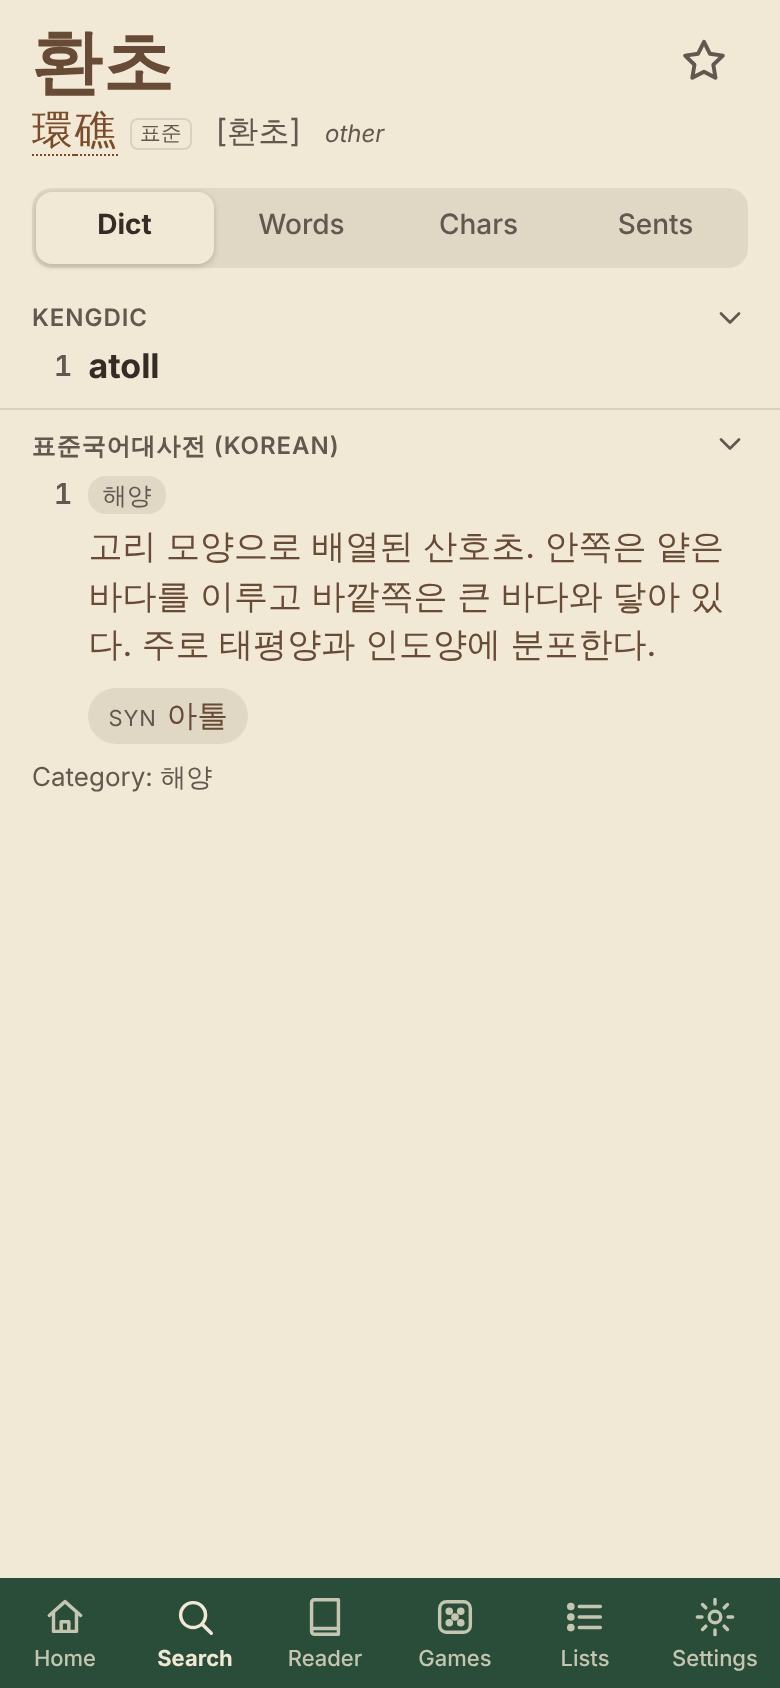
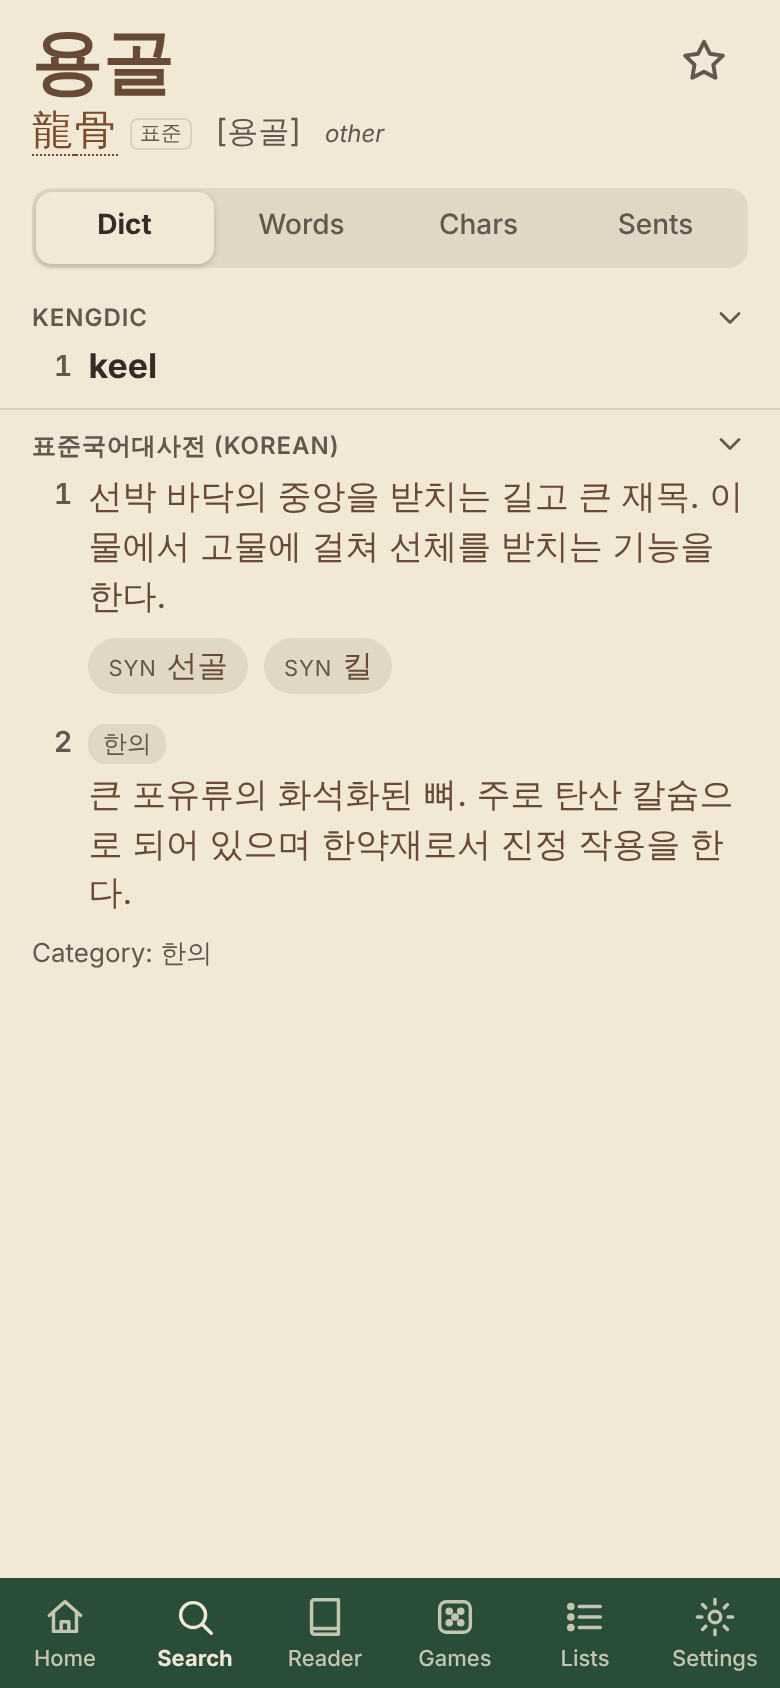
hanja fill e2e: use 용골 (filled with 우리말샘 corroboration) instead of 환초
Claude-Session: https://claude.ai/code/session_01KdPaeje8PEPnx6eSEhkmxd

diff --git a/app/e2e/hanja-fill.spec.ts b/app/e2e/hanja-fill.spec.ts
@@ -25,13 +25,13 @@ test('filled hanja: a small 표준 marker in the entry header (phone and iPad)',
   await page.getByRole('radio', { name: 'Light' }).click();
   await page.getByRole('link', { name: 'Search', exact: true }).click().catch(() => undefined);
 
-  // 환초 (kengdic-only word): hanja 環礁 from 표준국어대사전
-  await openEntry(page, '환초');
+  // 용골 (kengdic-only word, 'keel' also in 우리말샘): hanja 龍骨 from 표준국어대사전
+  await openEntry(page, '용골');
   const marker = page.locator('.entry-head .hanja-src');
   await expect(marker).toHaveCount(1);
   await expect(marker).toHaveText('표준');
   await expect(marker).toHaveAttribute('title', /표준국어대사전/);
-  await expect(page.locator('.entry-head .hanja-chars')).toHaveText('環礁');
+  await expect(page.locator('.entry-head .hanja-chars')).toHaveText('龍骨');
   // the marker is small and does not wrap the header onto many lines
   const box = await page.locator('.entry-head').boundingBox();
   expect(box!.height).toBeLessThan(150);
@@ -39,7 +39,7 @@ test('filled hanja: a small 표준 marker in the entry header (phone and iPad)',
 
   // the filled hanja feeds the Chars tab like any other
   await page.getByRole('tab', { name: /Chars/ }).click();
-  await expect(page.locator('.etab-panel')).toContainText('環');
+  await expect(page.locator('.etab-panel')).toContainText('龍');
 
   // an entry whose dictionary gives the hanja itself (krdict 사과 etc.) has no marker; a native word has no hanja at all
   await openEntry(page, '학교');
@@ -49,7 +49,7 @@ test('filled hanja: a small 표준 marker in the entry header (phone and iPad)',
   await expect(page.locator('.entry-head .hanja-src')).toHaveCount(0);
 
   // ---- iPad ----
-  await openEntry(page, '환초');
+  await openEntry(page, '용골');
   await page.setViewportSize({ width: 1180, height: 820 });
   await page.waitForTimeout(500);
   await expect(page.locator('.entry-head .hanja-src')).toHaveText('표준');
